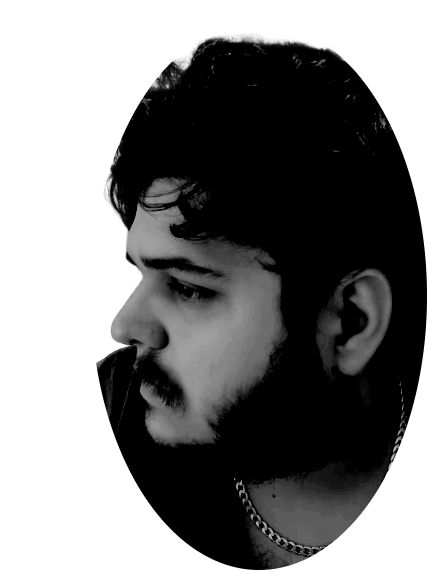
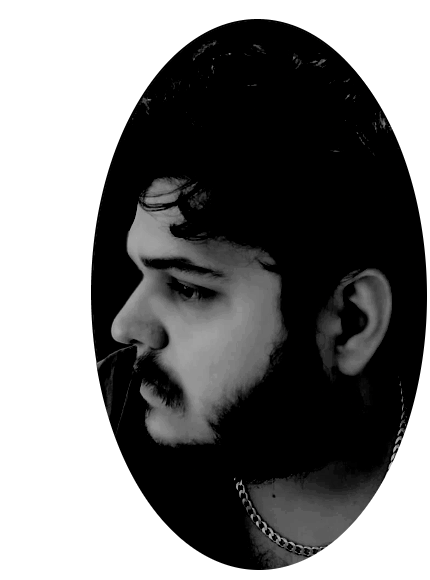
testando fundo

Changed region(s): [[0.2116, 0.2172, 0.3326, 0.6207], [0.3023, 0.031, 0.786, 0.2172], [0.786, 0.0931, 0.8163, 0.1241]]

diff --git a/style.css b/style.css
@@ -14,7 +14,7 @@
 .fotoaalex {
     position:fixed ;
     width: 200px;
-    left: 800px;
+    left: 825px;
     top: 320px;
 }
 .nome {
